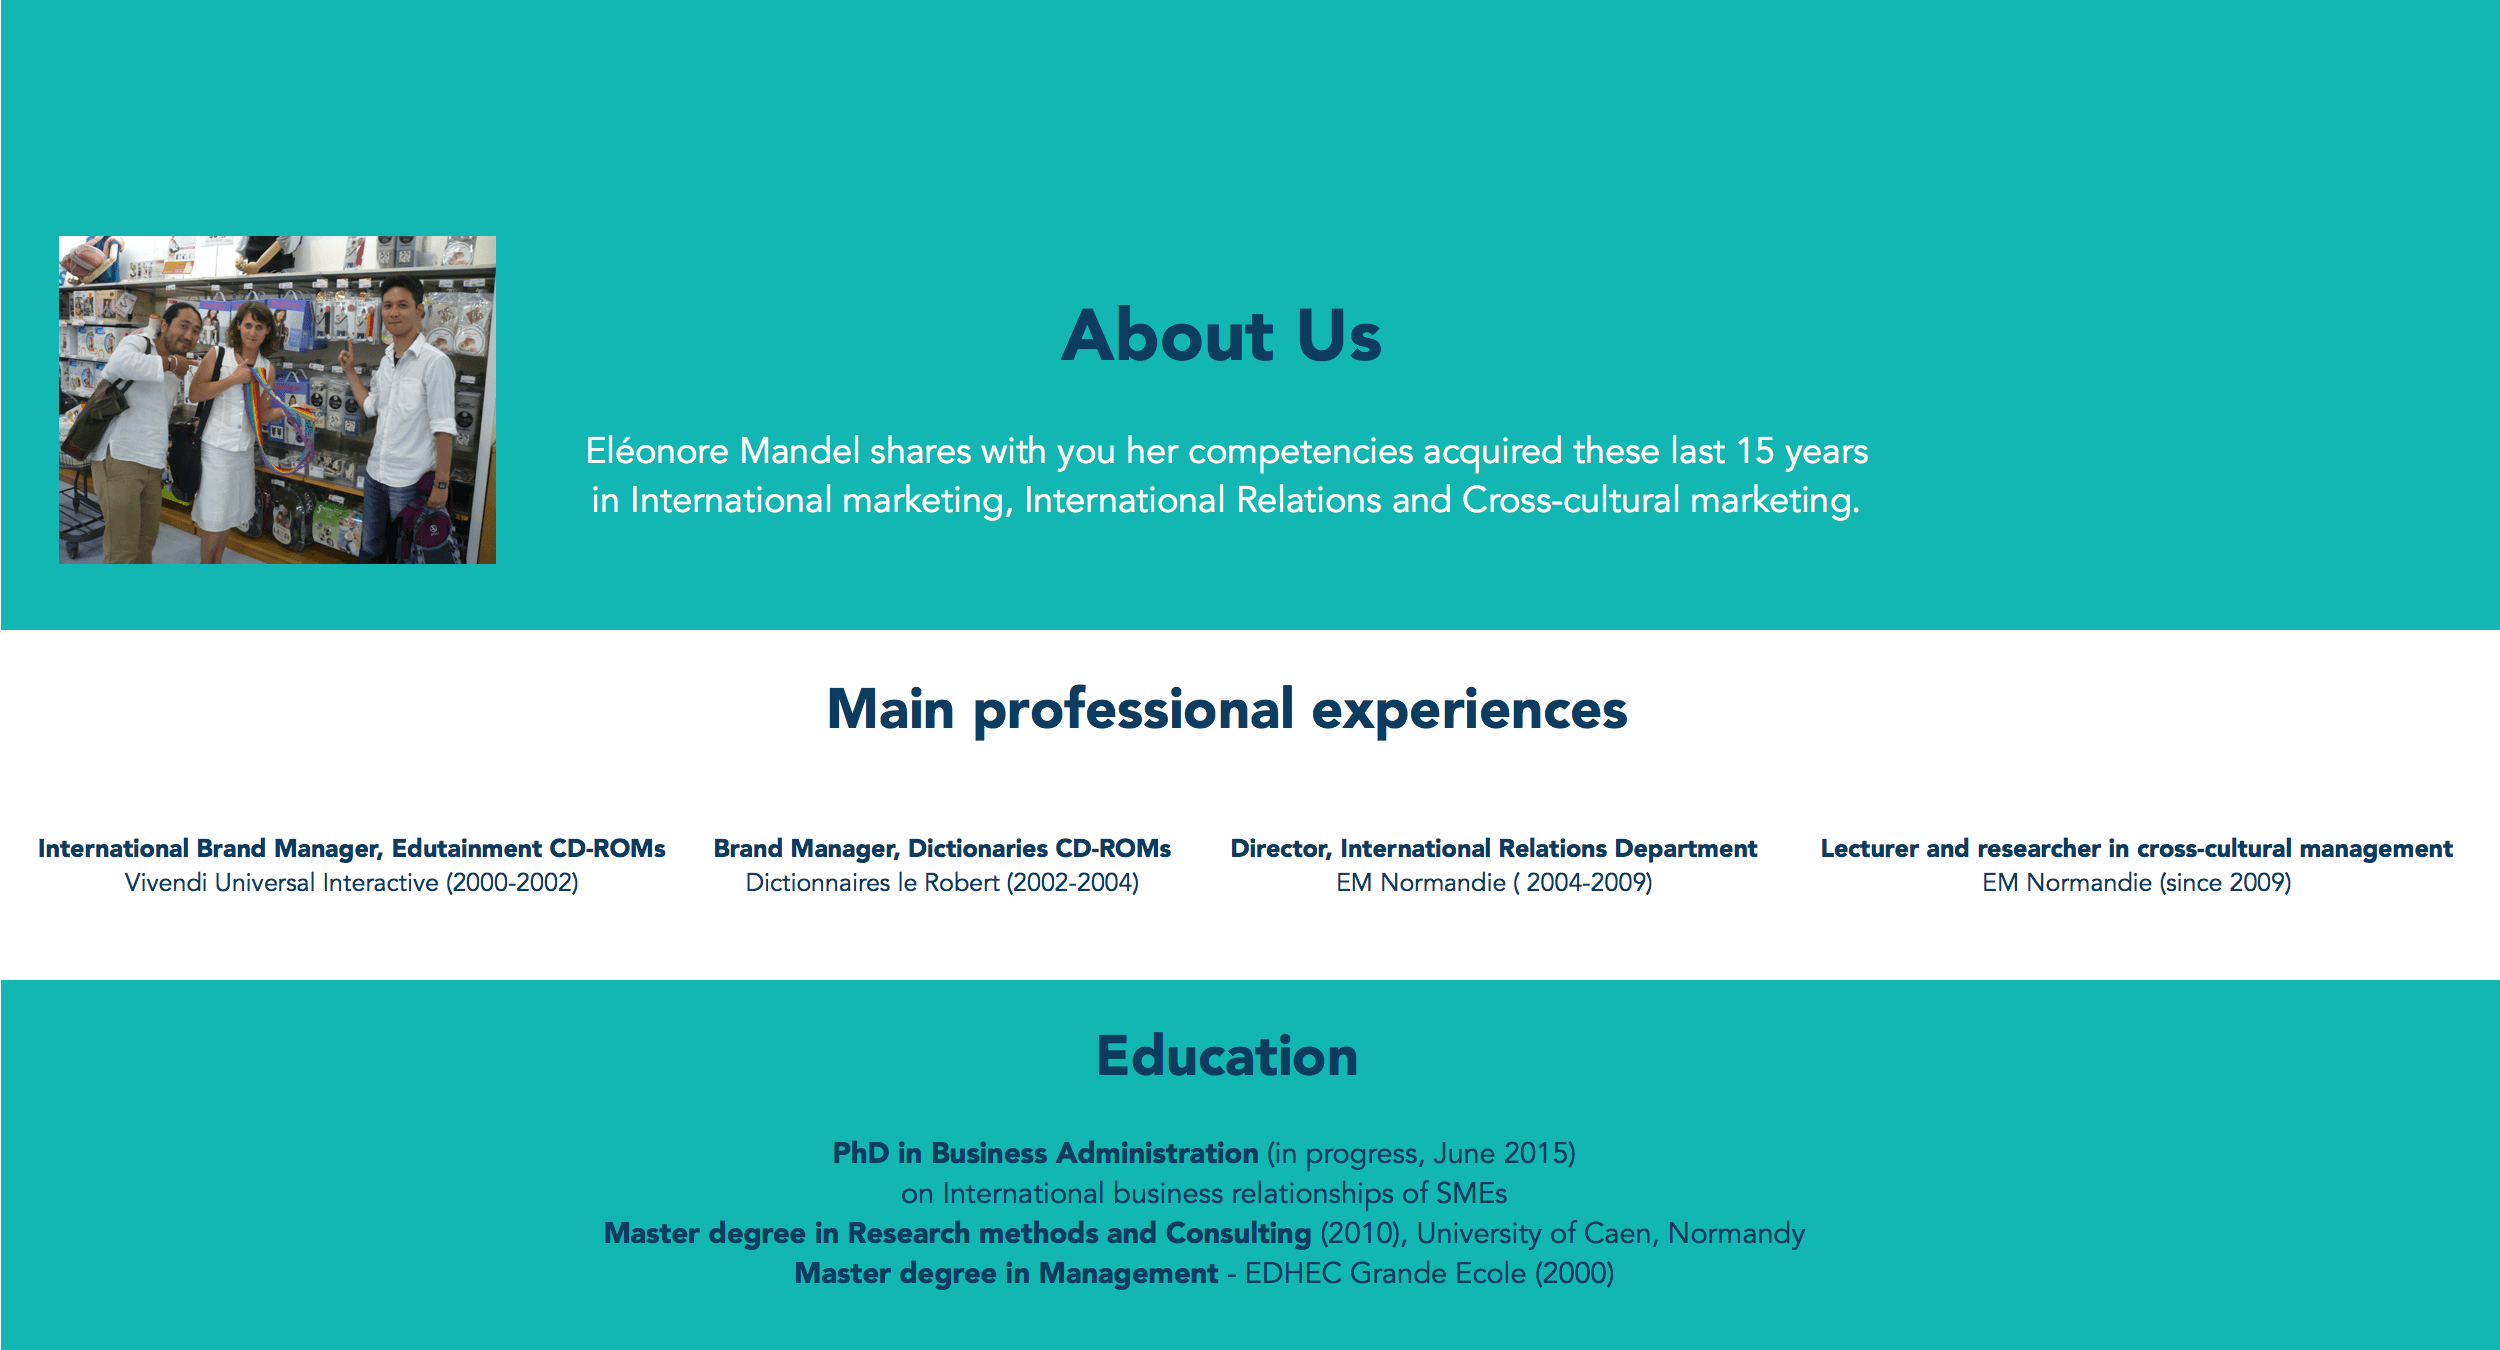
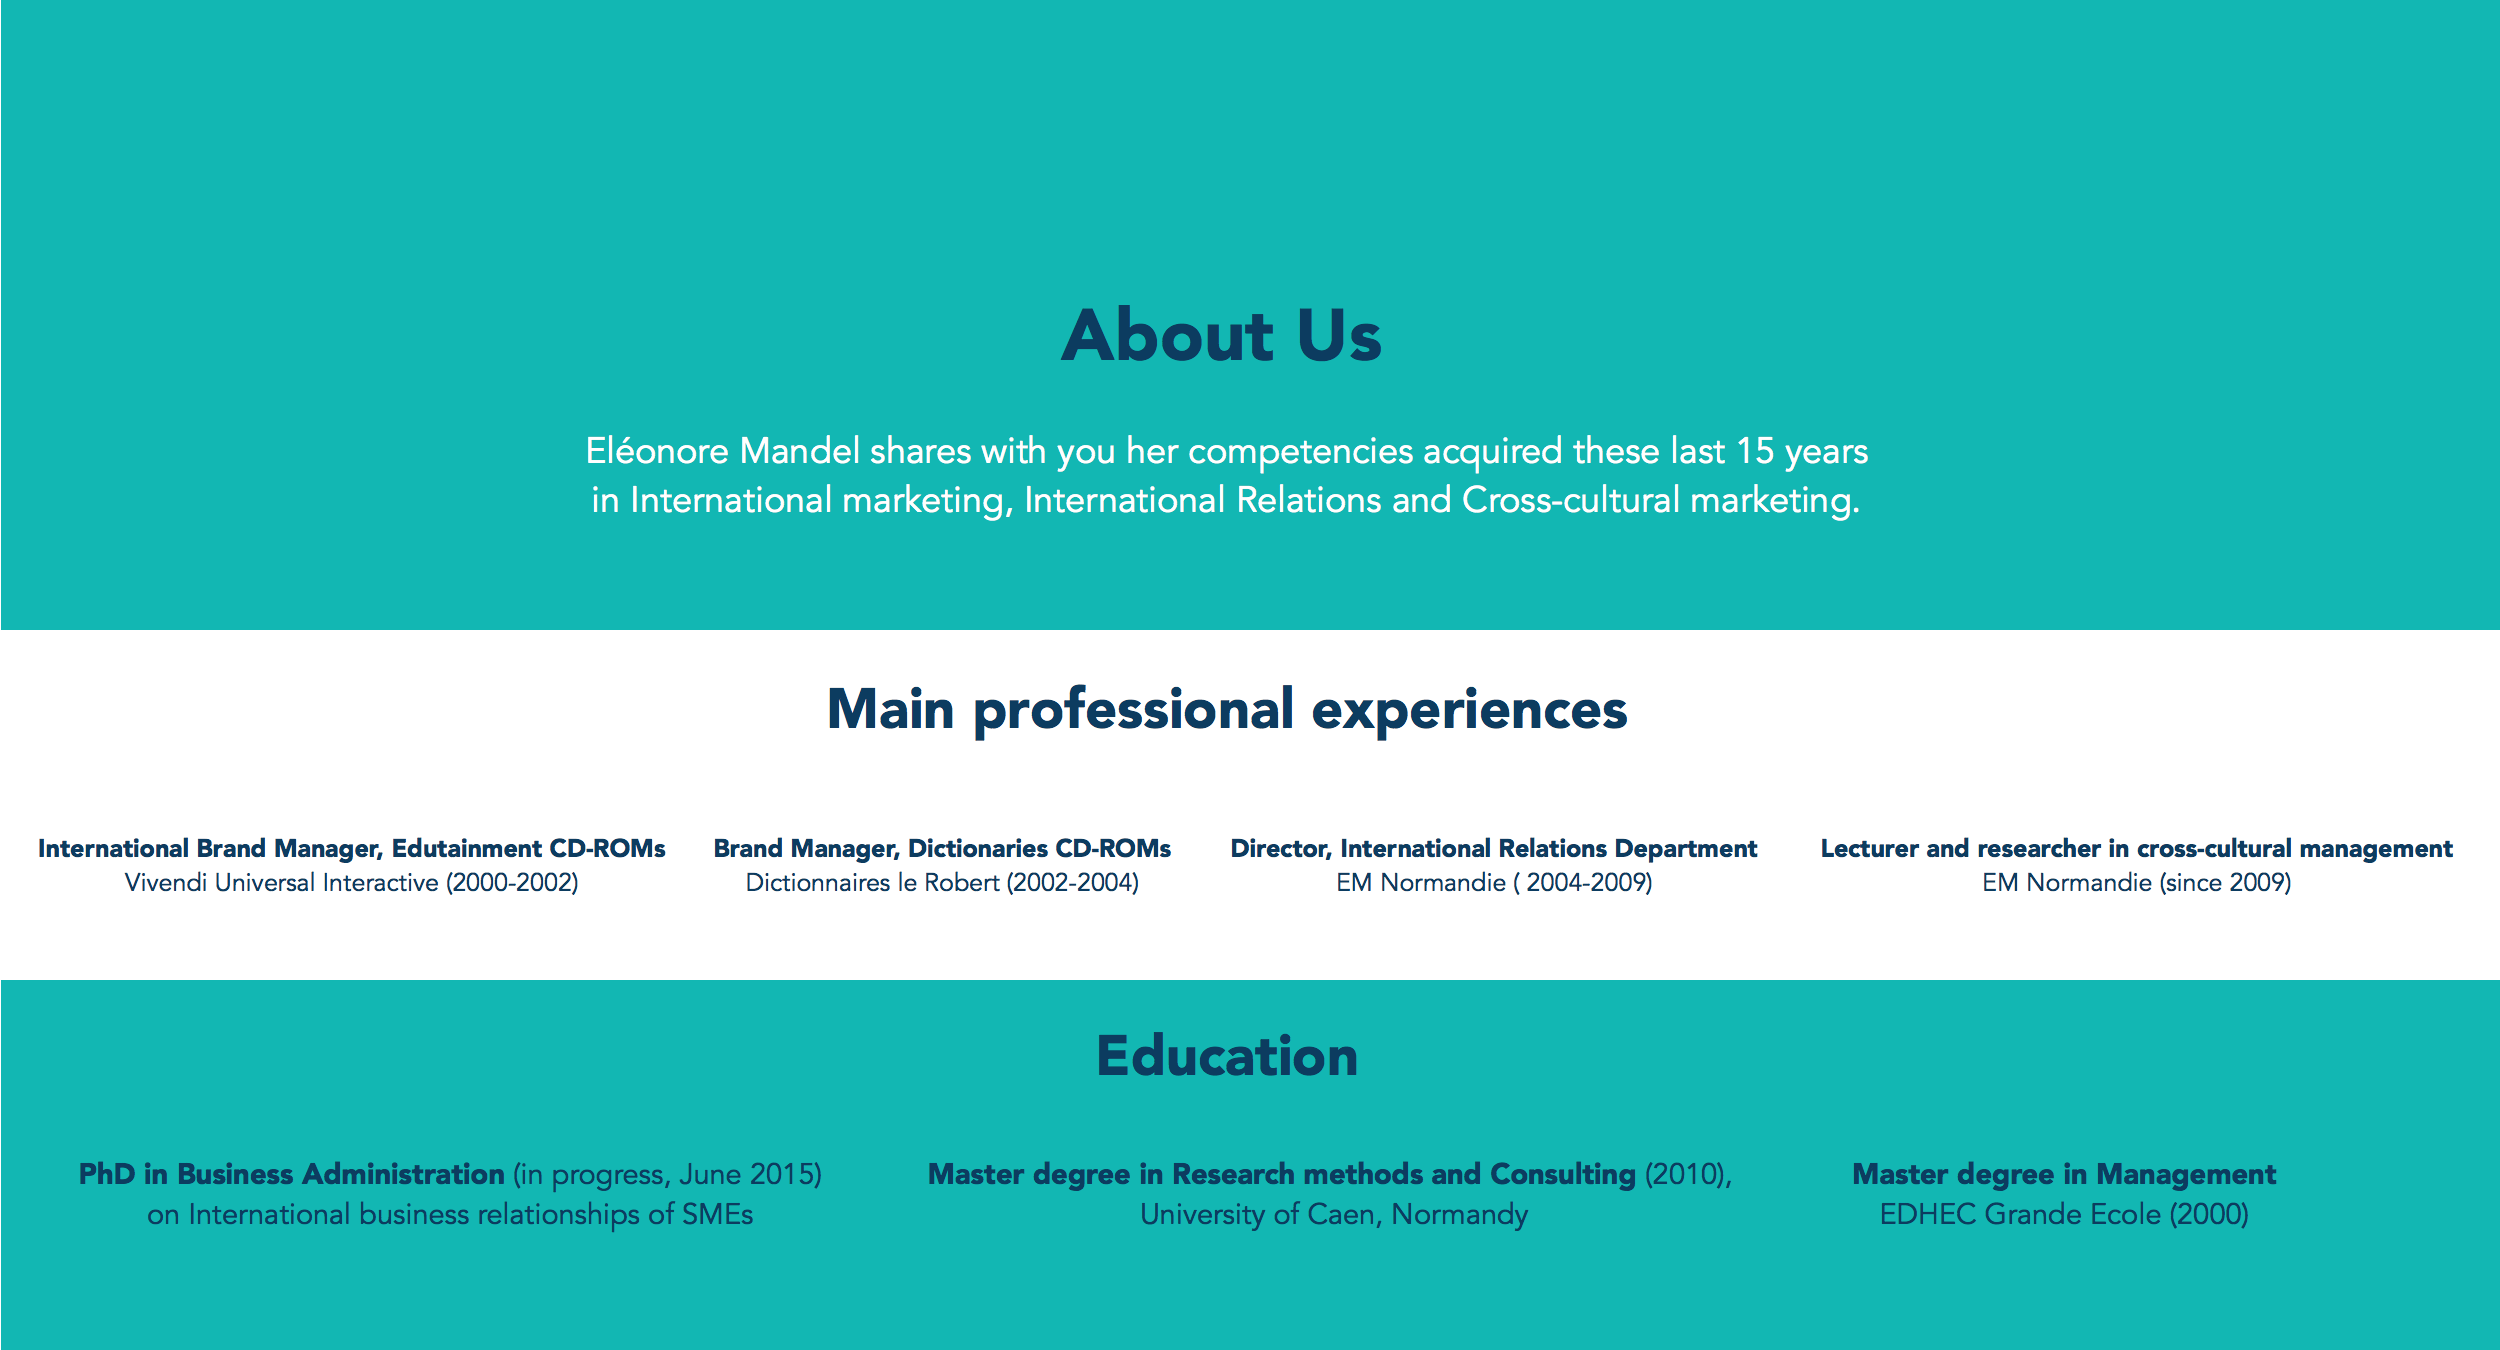
Version 7

Changed region(s): [[0.0312, 0.84, 0.7176, 0.9644], [0.0, 0.1556, 0.2184, 0.4356], [0.7488, 0.84, 0.9048, 0.9022]]

diff --git a/app/assets/stylesheets/CSS.css.scss b/app/assets/stylesheets/CSS.css.scss
@@ -154,8 +154,6 @@
 
 .row { 
 
-  padding: 10px;
-  padding-left: 50px;
   text-align: center;
   font-family: "Open Sans";
   font-size: 2.2vh;
@@ -163,7 +161,14 @@
   line-height: 4.0vh;
   margin-right: 0;
   margin-left: 0;
+  margin-top: 20px;
 
+}
+
+.glyphicon-plus-sign {
+  color: #12B7B3;
+  font-size: 20px;
+  vertical-align: middle;
 }
 
 
